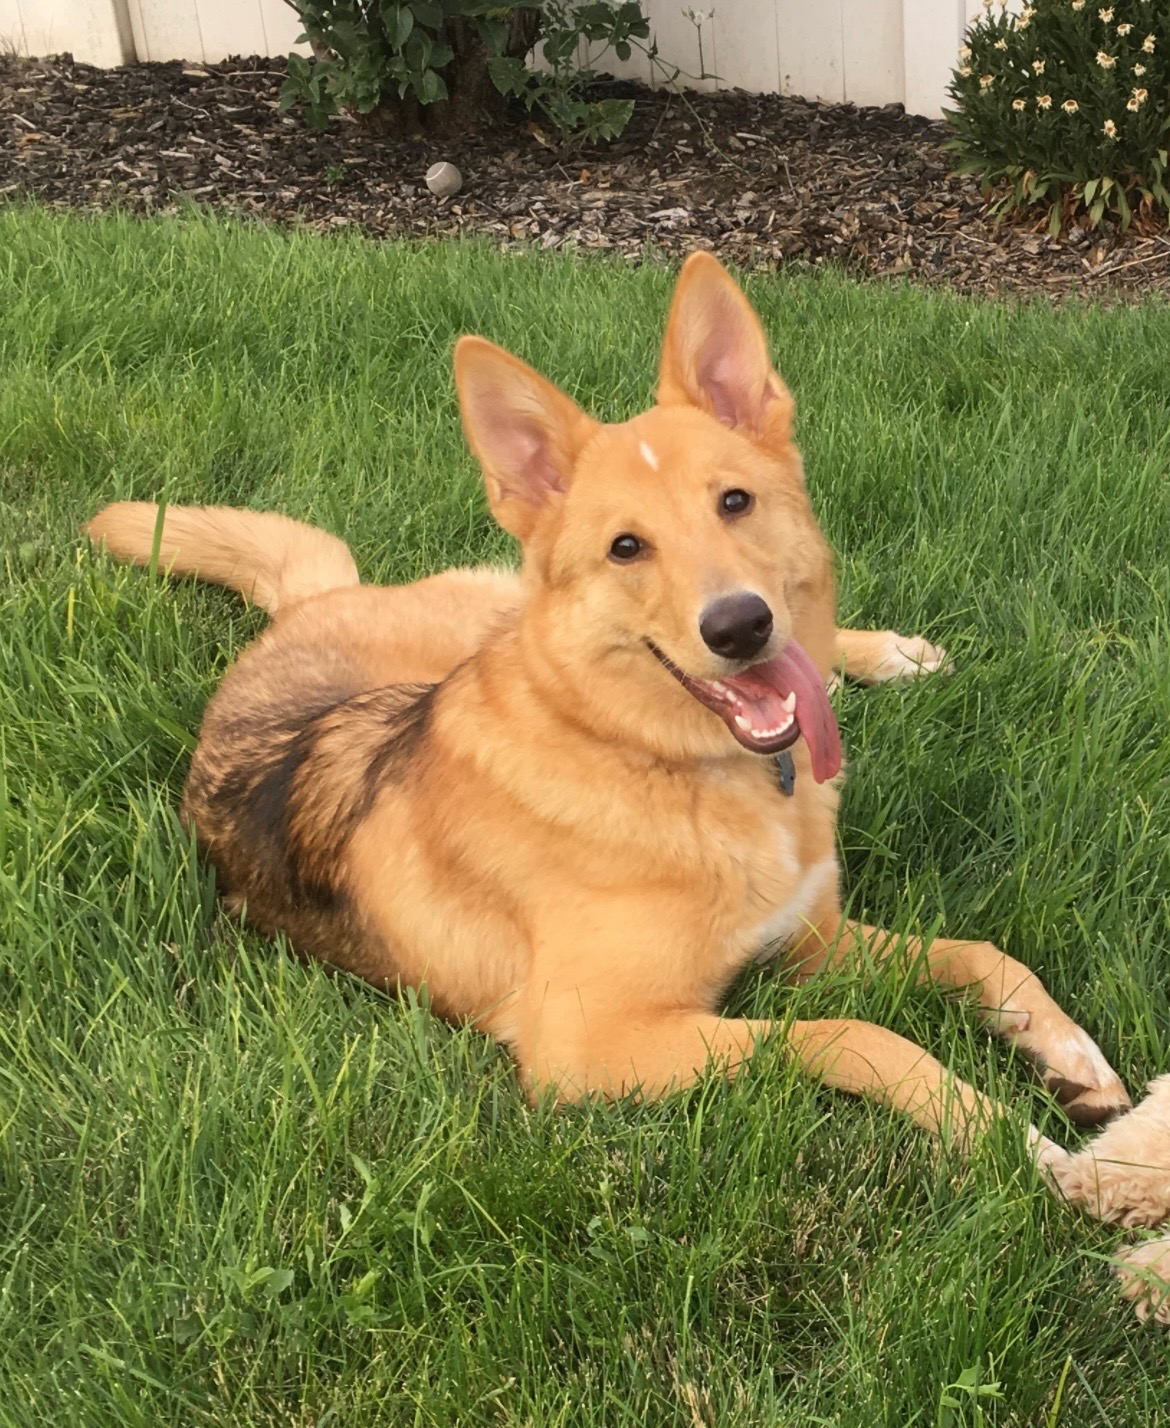
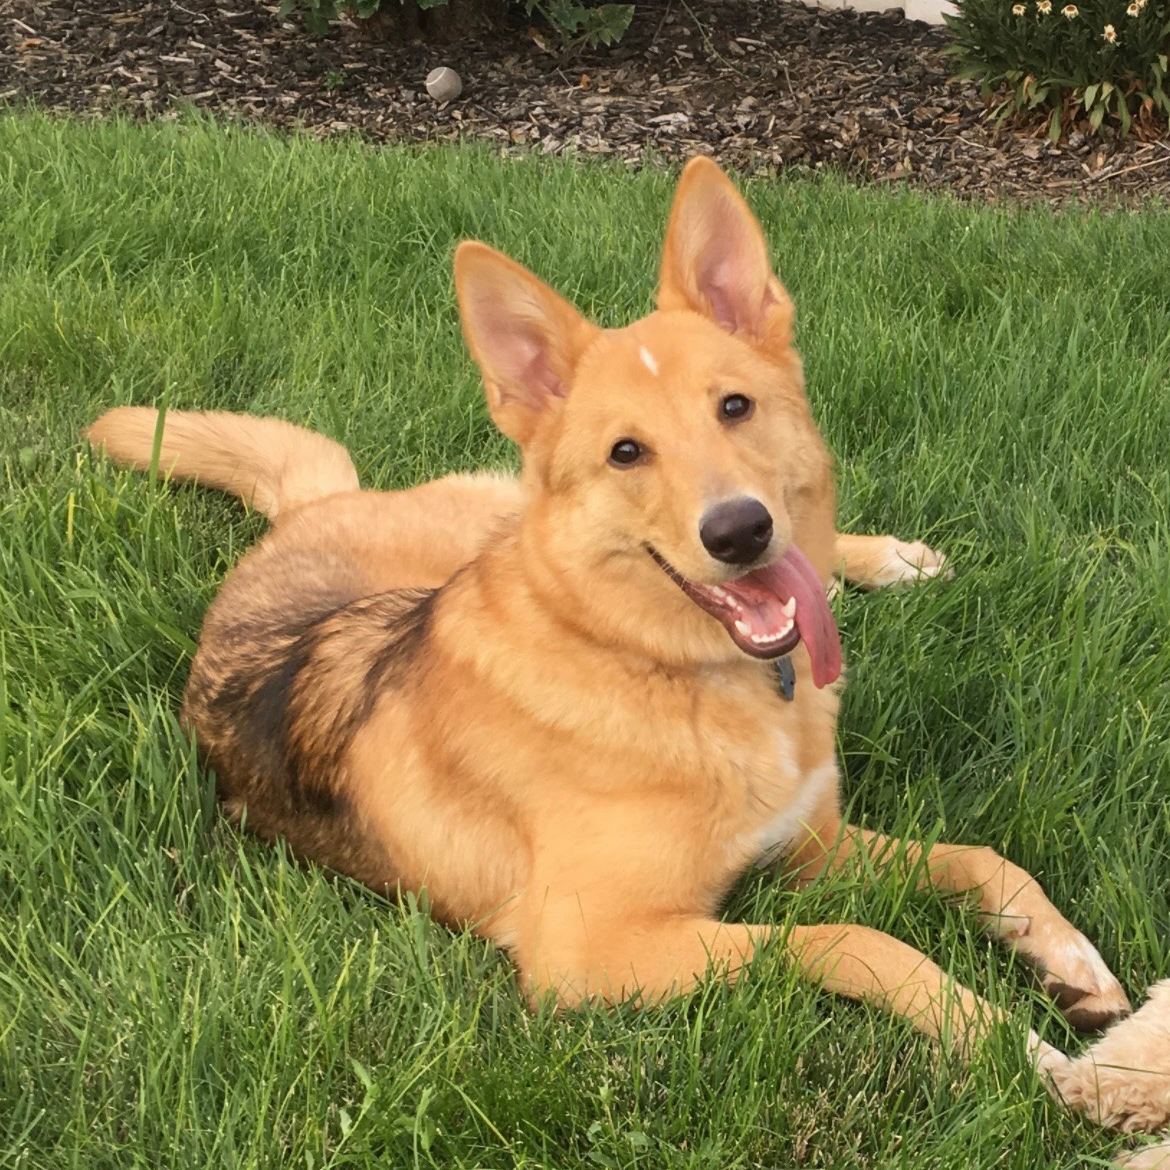
Finish formatting, spacing adjustments, and text edits

diff --git a/style.css b/style.css
@@ -1,15 +1,15 @@
 body {
+  font-family: sans-serif;
   margin: 0;
   min-height: 100vh;
-  display: flex;
-  flex-direction:column;
 }
-
 .header {
+  min-width: 500px;
   background-color: #1F2937;
   display: flex;
-  padding: 16px 300px;
   align-items: center;
+  justify-content: space-around;
+  padding: 20px 15%;
 }
 
 .header-logo {
@@ -26,39 +26,85 @@ body {
 }
 
 .body {
-  display:flex;
-  padding: 20px;
+  display: flex;
   flex-direction: column;
 }
 
 .container-one {
-  height: 300;
+  background-color: #1F2937;
   display: flex;
   justify-content: center;
   align-items: center;
-  padding: 0 300px;
+  padding: 100px 10%;
+  gap: 50px;
+  margin: 0;
+  flex-wrap: wrap;
 }
 
-.left-box {
+.container-one .left-box {
+  max-width: 450px;
   display: flex;
   flex-direction: column;
-  flex: 1;
+  gap: 15px;
+}
+
+.container-one .left-box h1 {
+  color: #F9FaF8;
+  font-size: 48px;
+  font-weight: bold;
+  margin: 0;
+  padding: 0;
+}
+
+.container-one .left-box .text {
+  color: #E5E7EB;
+  font-size: 18px;
+}
+
+.container-one .left-box .sign-up {
+  max-width: 100px;
+  min-height: 30px;
+  background-color: #3882F6;
+  color: white;
+  font-weight: bold;
+  border-radius: 10px;
+  border: none;
+}
+
+.container-one .left-box .sign-up:hover {
+  background-color: #ffffff;
+  color: black;
 }
 
 .big-image {
-  width: auto;
-  height: 500px;
+  max-width: 450px;
+  flex: auto;
+}
+
+.big-image img {
+  height: 300px;
+  width: 100%;
   object-fit: cover;
-  object-position: 50% 50%;
-  flex: 0;
-  padding: 50px;
+  flex: 1 0 auto;
+}
+
+.container-two h2{
+  text-align: center;
+  font-weight: bold;
+  font-size: 32px;
+}
+
+.container-two {
+  padding: 40px 0;
 }
 
 .image-row {
   display: flex;
-  justify-content: space-around;
+  justify-content: center;
   align-items: flex-start;
-  padding: 16px 350px;
+  padding: 16px;
+  flex-wrap: wrap;
+  gap: 20px;
 }
 
 .box {
@@ -70,6 +116,7 @@ body {
   align-items: center;
   padding: 20px;
   flex: 1 0 auto;
+  gap: 10px;
 }
 
 .small-image {
@@ -77,6 +124,83 @@ body {
   height: 200px;
   object-fit: cover;
   border-radius: 20px;
+}
+
+.container-three {
+  display: flex;
+  flex-direction: column;
+  background: #E5E7EB;
+  padding: 20px;
+  align-items: center;
+}
+
+.quote {
+  max-width: 800px;
+  font-size: 36px;
+  color: #1F2937;
+  font-weight: light;
+  font-style: italic;
+  padding-bottom: 20px;
+  text-align: justify;
+}
+
+.name {
+  font-size: 28px;
+  font-weight: bold;
+  text-align: right;
+  align-self: flex-end;
+  padding-right: 30%
+}
+
+.container-four {
+  display: flex;
+  justify-content: center;
+  padding: 100px 0;
+}
+
+.sign-up-box {
+  background-color: #3882F6;
+  display: flex;
+  padding: 40px 100px;
+  gap: 100px;
+  border-radius: 20px;
+}
+
+.container-four .left-box {
+  display: flex;
+  flex-direction: column;
+  gap: 20px;
+}
+
+.container-four .left-box h3 {
+  font-size: 26px;
+  color: #F9FaF8;
+  padding: 0;
+  margin: 0;
+}
+
+.container-four .sign-up {
+  min-width: 100px;
+  min-height: 40px;
+  background-color: #3882F6;
+  color: white;
+  font-weight: bold;
+  border-radius: 10px;
+  border: 2px solid white;
+  align-self: center;
+}
+
+.container-four .text {
+  color: white;
+  font-size: 20px;
+}
+
+.footer {
+  height: 65px;
+  background-color: #1F2937;
+  color:#F9FaF8;
+  text-align: center;
+  padding-top: 50px;
 }
 
 ul {
@@ -96,6 +220,7 @@ a:visited {
   color:#E5E7EB;
 }
 
-img {
-  max-width: 100%;
+.container-four .sign-up:hover {
+  background-color: #ffffff; /* Green */
+  color: black;
 }

diff --git a/index.html b/index.html
@@ -13,28 +13,28 @@
     <div class="header-logo">Header Logo</div>
     <ul class="header-link">
       <li> <a href="#">Link One</a></li>
-      <li> <a href="#">Link One</a></li>
-      <li> <a href="#">Link One</a></li>  
+      <li> <a href="#">Link Two</a></li>
+      <li> <a href="#">Link Three</a></li>  
     </ul>
   </div>
 
   <div class="body">
     <div class="container-one">
       <div class="left-box">
-        <h1>This website is awesome</h1>
+        <h1>Meet Denali.</h1>
         <div class="text">This website has some subtext that goes here under the main title. It's a smaller font and the color is lower contrast.</div>
         <button class="sign-up">Sign up</button>
       </div>
-      <img class ="big-image" src="./images/Denali3.jpg" alt="Puppiest girl doing a sunset relax">
+      <div class ="big-image"><img src="./images/Denali5.jpg" alt="Puppiest girl doing a sunset relax"></div>
     </div>
 
     <div class="container-two">
-      <h2>Some random information.</h2>
+      <h2>Just some super cute pictures</h2>
       <div class="image-row">
         <div class="box"><img class="small-image" src="./images/Denali1.jpg" alt="dog in the grass">A young Denali relaxing in the grass</div>
         <div class="box"><img class="small-image" src="./images/Denali2.jpg" alt="dog on the couch">The most natural pose for this chonk is the 'Couch Sit'</div>
         <div class="box"><img class="small-image" src="./images/Denali4.jpg" alt="Christmas dog">An outstandingly festive pup spreading her holiday cheer</div>
-        <div class="box"><img class="small-image" src="./images/Denali5.JPG" alt="dog with a neck a mile long">Llama neck</div>
+        <div class="box"><img class="small-image" src="./images/Denali3.JPG" alt="dog with a neck a mile long">Llama neck</div>
       </div>
     </div>
 
